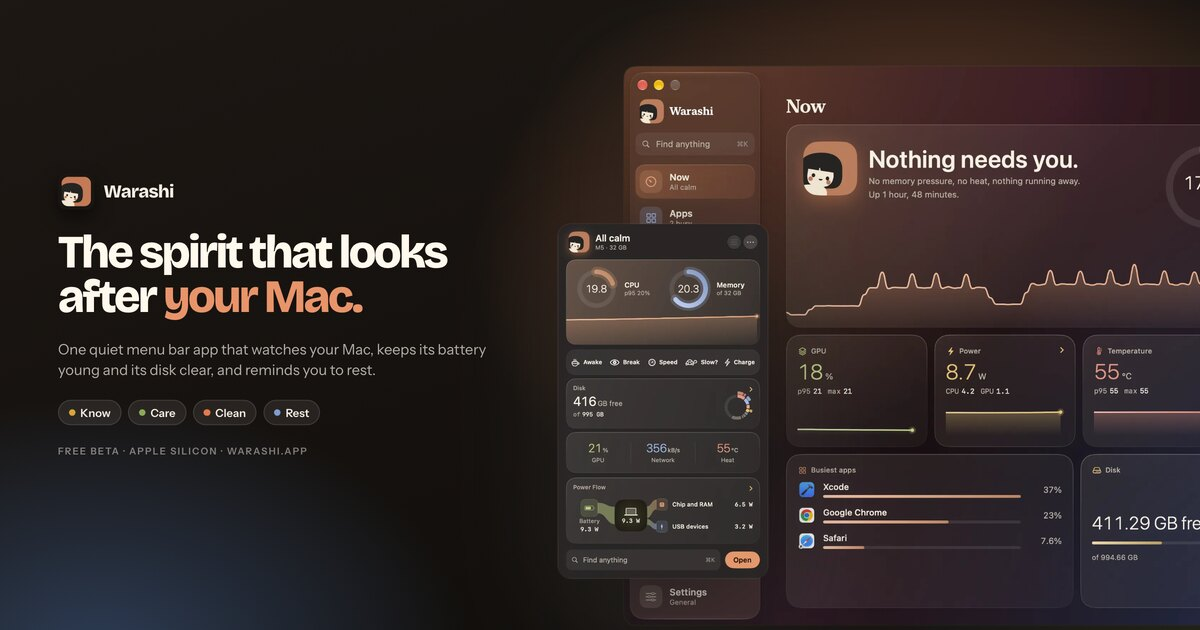
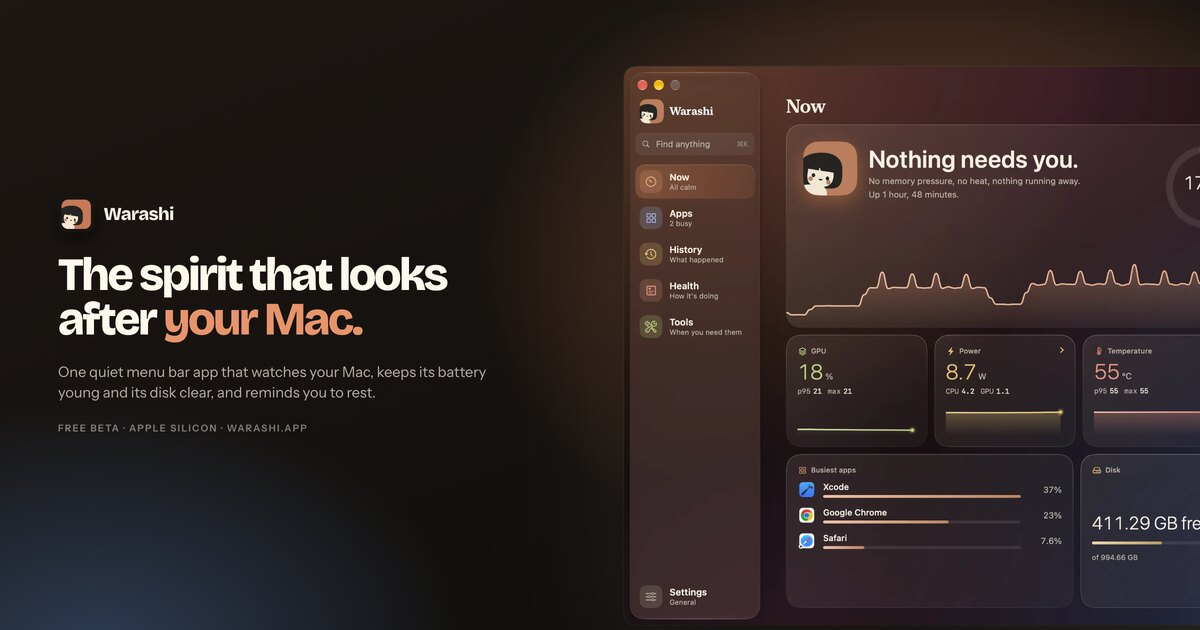
Listing screenshots on the site: six at 2880x1800 in og:image, JSON-LD and the press page; simpler share image and poster

diff --git a/press/index.html b/press/index.html
@@ -123,7 +123,7 @@ posthog.register({ surface: "website" });
 <h2>Logos</h2>
 <div class="press-logos"><a class="press-logo" href="../assets/press/logos/warashi-icon-1024.png" download><img src="../assets/press/logos/warashi-icon-1024.png" alt="App icon, 1024 px" loading="lazy"><span>App icon, 1024 px</span></a><a class="press-logo" href="../assets/press/logos/warashi-wordmark-on-dark.png" download><img src="../assets/press/logos/warashi-wordmark-on-dark.png" alt="Wordmark on dark" loading="lazy"><span>Wordmark on dark</span></a><a class="press-logo light" href="../assets/press/logos/warashi-wordmark-on-light.png" download><img src="../assets/press/logos/warashi-wordmark-on-light.png" alt="Wordmark on light" loading="lazy"><span>Wordmark on light</span></a><a class="press-logo" href="../assets/press/logos/warashi-spirit.svg" download><img src="../assets/press/logos/warashi-spirit.svg" alt="Spirit (SVG)" loading="lazy"><span>Spirit (SVG)</span></a></div>
 <h2>Images</h2>
-<div class="press-shots"><a href="../assets/press/screens/01-hero.webp" class="press-shot"><img src="../assets/press/screens/01-hero.webp" alt="Warashi: hero" width="800" height="450" loading="lazy"></a><a href="../assets/press/screens/02-know.webp" class="press-shot"><img src="../assets/press/screens/02-know.webp" alt="Warashi: know" width="800" height="450" loading="lazy"></a><a href="../assets/press/screens/03-care.webp" class="press-shot"><img src="../assets/press/screens/03-care.webp" alt="Warashi: care" width="800" height="450" loading="lazy"></a><a href="../assets/press/screens/04-clean.webp" class="press-shot"><img src="../assets/press/screens/04-clean.webp" alt="Warashi: clean" width="800" height="450" loading="lazy"></a><a href="../assets/press/screens/05-rest.webp" class="press-shot"><img src="../assets/press/screens/05-rest.webp" alt="Warashi: rest" width="800" height="450" loading="lazy"></a><a href="../assets/press/screens/06-developers.webp" class="press-shot"><img src="../assets/press/screens/06-developers.webp" alt="Warashi: developers" width="800" height="450" loading="lazy"></a><a href="../assets/press/screens/07-oneapp.webp" class="press-shot"><img src="../assets/press/screens/07-oneapp.webp" alt="Warashi: oneapp" width="800" height="450" loading="lazy"></a></div>
+<h3>Screenshots, 2880 x 1800</h3><div class="press-shots"><a href="../assets/img/screenshots/01-cover.jpg" class="press-shot" download><img src="../assets/img/screenshots/01-cover.jpg" alt="Warashi screenshot: cover" width="2880" height="1800" loading="lazy"></a><a href="../assets/img/screenshots/02-know.jpg" class="press-shot" download><img src="../assets/img/screenshots/02-know.jpg" alt="Warashi screenshot: know" width="2880" height="1800" loading="lazy"></a><a href="../assets/img/screenshots/03-care.jpg" class="press-shot" download><img src="../assets/img/screenshots/03-care.jpg" alt="Warashi screenshot: care" width="2880" height="1800" loading="lazy"></a><a href="../assets/img/screenshots/04-clean.jpg" class="press-shot" download><img src="../assets/img/screenshots/04-clean.jpg" alt="Warashi screenshot: clean" width="2880" height="1800" loading="lazy"></a><a href="../assets/img/screenshots/05-rest.jpg" class="press-shot" download><img src="../assets/img/screenshots/05-rest.jpg" alt="Warashi screenshot: rest" width="2880" height="1800" loading="lazy"></a><a href="../assets/img/screenshots/06-developers.jpg" class="press-shot" download><img src="../assets/img/screenshots/06-developers.jpg" alt="Warashi screenshot: developers" width="2880" height="1800" loading="lazy"></a></div><h3>Gallery</h3><div class="press-shots"><a href="../assets/press/screens/00-showcase.webp" class="press-shot"><img src="../assets/press/screens/00-showcase.webp" alt="Warashi: showcase" width="800" height="450" loading="lazy"></a><a href="../assets/press/screens/01-hero.webp" class="press-shot"><img src="../assets/press/screens/01-hero.webp" alt="Warashi: hero" width="800" height="450" loading="lazy"></a><a href="../assets/press/screens/02-know.webp" class="press-shot"><img src="../assets/press/screens/02-know.webp" alt="Warashi: know" width="800" height="450" loading="lazy"></a><a href="../assets/press/screens/03-care.webp" class="press-shot"><img src="../assets/press/screens/03-care.webp" alt="Warashi: care" width="800" height="450" loading="lazy"></a><a href="../assets/press/screens/04-clean.webp" class="press-shot"><img src="../assets/press/screens/04-clean.webp" alt="Warashi: clean" width="800" height="450" loading="lazy"></a><a href="../assets/press/screens/05-rest.webp" class="press-shot"><img src="../assets/press/screens/05-rest.webp" alt="Warashi: rest" width="800" height="450" loading="lazy"></a><a href="../assets/press/screens/06-developers.webp" class="press-shot"><img src="../assets/press/screens/06-developers.webp" alt="Warashi: developers" width="800" height="450" loading="lazy"></a><a href="../assets/press/screens/07-oneapp.webp" class="press-shot"><img src="../assets/press/screens/07-oneapp.webp" alt="Warashi: oneapp" width="800" height="450" loading="lazy"></a></div>
 <h2>Films</h2><h3>The Keynote <span style="color:var(--faint);font-weight:400">· 2:14</span></h3><video controls preload="none" poster="../assets/press/keynote-poster.jpg" src="../assets/press/warashi-keynote.mp4" style="width:100%;border-radius:14px"></video><p style="margin-top:8px"><a href="../assets/press/warashi-keynote-1080p.mp4" download>Download in 1080p</a></p><h3>A day with your Mac <span style="color:var(--faint);font-weight:400">· 1:10</span></h3><video controls preload="none" poster="../assets/press/day-poster.jpg" src="../assets/press/warashi-a-day.mp4" style="width:100%;border-radius:14px"></video><p style="margin-top:8px"><a href="../assets/press/warashi-a-day-1080p.mp4" download>Download in 1080p</a></p>
 <h2>Contact</h2>
 <p>Questions, review copies or an interview: <a href="mailto:adam@warashi.app">adam@warashi.app</a>. Screenshots and the film may be used to write about Warashi; please don't alter the logo.</p>

diff --git a/fr/index.html b/fr/index.html
@@ -15,6 +15,18 @@
 <meta property="og:image:type" content="image/jpeg">
 <meta property="og:image:width" content="1200"><meta property="og:image:height" content="630">
 <meta property="og:image:alt" content="Warashi : l’esprit qui veille sur votre Mac. L’icône de l’esprit à côté de la fenêtre Warashi et de la fenêtre de la barre des menus.">
+<meta property="og:image" content="https://warashi.app/assets/img/screenshots/01-cover.jpg">
+<meta property="og:image:width" content="2880"><meta property="og:image:height" content="1800">
+<meta property="og:image" content="https://warashi.app/assets/img/screenshots/02-know.jpg">
+<meta property="og:image:width" content="2880"><meta property="og:image:height" content="1800">
+<meta property="og:image" content="https://warashi.app/assets/img/screenshots/03-care.jpg">
+<meta property="og:image:width" content="2880"><meta property="og:image:height" content="1800">
+<meta property="og:image" content="https://warashi.app/assets/img/screenshots/04-clean.jpg">
+<meta property="og:image:width" content="2880"><meta property="og:image:height" content="1800">
+<meta property="og:image" content="https://warashi.app/assets/img/screenshots/05-rest.jpg">
+<meta property="og:image:width" content="2880"><meta property="og:image:height" content="1800">
+<meta property="og:image" content="https://warashi.app/assets/img/screenshots/06-developers.jpg">
+<meta property="og:image:width" content="2880"><meta property="og:image:height" content="1800">
 <meta name="twitter:card" content="summary_large_image">
 <meta name="twitter:title" content="Warashi : l’esprit qui veille sur votre Mac">
 <meta name="twitter:description" content="Warashi est l’esprit qui veille sur votre Mac : une app discrète de la barre des menus pour Apple silicon qui le surveille, garde sa batterie jeune et son disque dégagé, vous prévient quand quelque chose cloche, et vous rappelle de vous reposer. Bêta gratuite.">
@@ -41,7 +53,7 @@ posthog.init("phc_wbppbVusTEpwnbuC3pzygCZUmxrsKuwjPNsxihwFuBWW", {
 });
 posthog.register({ surface: "website" });
 </script>
-<script type="application/ld+json">{"@context":"https://schema.org","@type":"SoftwareApplication","name":"Warashi","applicationCategory":"UtilitiesApplication","operatingSystem":"macOS 26 or later (Apple silicon)","description":"Warashi est l’esprit qui veille sur votre Mac : une app discrète de la barre des menus pour Apple silicon qui le surveille, garde sa batterie jeune et son disque dégagé, vous prévient quand quelque chose cloche, et vous rappelle de vous reposer. Bêta gratuite.","url":"https://warashi.app/","image":"https://warashi.app/assets/img/app-icon-1024.png","author":{"@type":"Person","name":"Adam Markocki","url":"https://markockiadam.com"},"softwareVersion":"0.3.63","dateModified":"2026-11-23"}</script>
+<script type="application/ld+json">{"@context":"https://schema.org","@type":"SoftwareApplication","name":"Warashi","applicationCategory":"UtilitiesApplication","operatingSystem":"macOS 26 or later (Apple silicon)","description":"Warashi est l’esprit qui veille sur votre Mac : une app discrète de la barre des menus pour Apple silicon qui le surveille, garde sa batterie jeune et son disque dégagé, vous prévient quand quelque chose cloche, et vous rappelle de vous reposer. Bêta gratuite.","url":"https://warashi.app/","image":"https://warashi.app/assets/img/app-icon-1024.png","author":{"@type":"Person","name":"Adam Markocki","url":"https://markockiadam.com"},"softwareVersion":"0.3.63","dateModified":"2026-11-23","screenshot":["https://warashi.app/assets/img/screenshots/01-cover.jpg","https://warashi.app/assets/img/screenshots/02-know.jpg","https://warashi.app/assets/img/screenshots/03-care.jpg","https://warashi.app/assets/img/screenshots/04-clean.jpg","https://warashi.app/assets/img/screenshots/05-rest.jpg","https://warashi.app/assets/img/screenshots/06-developers.jpg"]}</script>
 <script type="application/ld+json">{"@context":"https://schema.org","@type":"WebSite","name":"Warashi","url":"https://warashi.app/"}</script>
 
 

diff --git a/ja/index.html b/ja/index.html
@@ -15,6 +15,18 @@
 <meta property="og:image:type" content="image/jpeg">
 <meta property="og:image:width" content="1200"><meta property="og:image:height" content="630">
 <meta property="og:image:alt" content="Warashi：Macを見守る精霊。Warashiのウインドウとメニューバーウインドウの横にある、わらしのアイコン。">
+<meta property="og:image" content="https://warashi.app/assets/img/screenshots/01-cover.jpg">
+<meta property="og:image:width" content="2880"><meta property="og:image:height" content="1800">
+<meta property="og:image" content="https://warashi.app/assets/img/screenshots/02-know.jpg">
+<meta property="og:image:width" content="2880"><meta property="og:image:height" content="1800">
+<meta property="og:image" content="https://warashi.app/assets/img/screenshots/03-care.jpg">
+<meta property="og:image:width" content="2880"><meta property="og:image:height" content="1800">
+<meta property="og:image" content="https://warashi.app/assets/img/screenshots/04-clean.jpg">
+<meta property="og:image:width" content="2880"><meta property="og:image:height" content="1800">
+<meta property="og:image" content="https://warashi.app/assets/img/screenshots/05-rest.jpg">
+<meta property="og:image:width" content="2880"><meta property="og:image:height" content="1800">
+<meta property="og:image" content="https://warashi.app/assets/img/screenshots/06-developers.jpg">
+<meta property="og:image:width" content="2880"><meta property="og:image:height" content="1800">
 <meta name="twitter:card" content="summary_large_image">
 <meta name="twitter:title" content="Warashi：Macを見守る精霊">
 <meta name="twitter:description" content="WarashiはMacを見守る精霊。Apple silicon向けの静かなメニューバーアプリで、Macを見守り、バッテリーを若々しく、ディスクをすっきりと保ち、異常をお知らせし、休憩をうながします。無料ベータ版。">
@@ -41,7 +53,7 @@ posthog.init("phc_wbppbVusTEpwnbuC3pzygCZUmxrsKuwjPNsxihwFuBWW", {
 });
 posthog.register({ surface: "website" });
 </script>
-<script type="application/ld+json">{"@context":"https://schema.org","@type":"SoftwareApplication","name":"Warashi","applicationCategory":"UtilitiesApplication","operatingSystem":"macOS 26 or later (Apple silicon)","description":"WarashiはMacを見守る精霊。Apple silicon向けの静かなメニューバーアプリで、Macを見守り、バッテリーを若々しく、ディスクをすっきりと保ち、異常をお知らせし、休憩をうながします。無料ベータ版。","url":"https://warashi.app/","image":"https://warashi.app/assets/img/app-icon-1024.png","author":{"@type":"Person","name":"Adam Markocki","url":"https://markockiadam.com"},"softwareVersion":"0.3.63","dateModified":"2026-11-23"}</script>
+<script type="application/ld+json">{"@context":"https://schema.org","@type":"SoftwareApplication","name":"Warashi","applicationCategory":"UtilitiesApplication","operatingSystem":"macOS 26 or later (Apple silicon)","description":"WarashiはMacを見守る精霊。Apple silicon向けの静かなメニューバーアプリで、Macを見守り、バッテリーを若々しく、ディスクをすっきりと保ち、異常をお知らせし、休憩をうながします。無料ベータ版。","url":"https://warashi.app/","image":"https://warashi.app/assets/img/app-icon-1024.png","author":{"@type":"Person","name":"Adam Markocki","url":"https://markockiadam.com"},"softwareVersion":"0.3.63","dateModified":"2026-11-23","screenshot":["https://warashi.app/assets/img/screenshots/01-cover.jpg","https://warashi.app/assets/img/screenshots/02-know.jpg","https://warashi.app/assets/img/screenshots/03-care.jpg","https://warashi.app/assets/img/screenshots/04-clean.jpg","https://warashi.app/assets/img/screenshots/05-rest.jpg","https://warashi.app/assets/img/screenshots/06-developers.jpg"]}</script>
 <script type="application/ld+json">{"@context":"https://schema.org","@type":"WebSite","name":"Warashi","url":"https://warashi.app/"}</script>
 
 

diff --git a/pl/index.html b/pl/index.html
@@ -15,6 +15,18 @@
 <meta property="og:image:type" content="image/jpeg">
 <meta property="og:image:width" content="1200"><meta property="og:image:height" content="630">
 <meta property="og:image:alt" content="Warashi: duszek, który opiekuje się Twoim Makiem. Ikona duszka obok okna Warashi i okna paska menu.">
+<meta property="og:image" content="https://warashi.app/assets/img/screenshots/01-cover.jpg">
+<meta property="og:image:width" content="2880"><meta property="og:image:height" content="1800">
+<meta property="og:image" content="https://warashi.app/assets/img/screenshots/02-know.jpg">
+<meta property="og:image:width" content="2880"><meta property="og:image:height" content="1800">
+<meta property="og:image" content="https://warashi.app/assets/img/screenshots/03-care.jpg">
+<meta property="og:image:width" content="2880"><meta property="og:image:height" content="1800">
+<meta property="og:image" content="https://warashi.app/assets/img/screenshots/04-clean.jpg">
+<meta property="og:image:width" content="2880"><meta property="og:image:height" content="1800">
+<meta property="og:image" content="https://warashi.app/assets/img/screenshots/05-rest.jpg">
+<meta property="og:image:width" content="2880"><meta property="og:image:height" content="1800">
+<meta property="og:image" content="https://warashi.app/assets/img/screenshots/06-developers.jpg">
+<meta property="og:image:width" content="2880"><meta property="og:image:height" content="1800">
 <meta name="twitter:card" content="summary_large_image">
 <meta name="twitter:title" content="Warashi: duszek, który opiekuje się Twoim Makiem">
 <meta name="twitter:description" content="Warashi to duszek, który opiekuje się Twoim Makiem: jedna cicha aplikacja paska menu dla Apple silicon, która go obserwuje, utrzymuje baterię młodą, a dysk czysty, mówi, gdy coś jest nie tak, i przypomina, by odpocząć. Bezpłatna beta.">
@@ -41,7 +53,7 @@ posthog.init("phc_wbppbVusTEpwnbuC3pzygCZUmxrsKuwjPNsxihwFuBWW", {
 });
 posthog.register({ surface: "website" });
 </script>
-<script type="application/ld+json">{"@context":"https://schema.org","@type":"SoftwareApplication","name":"Warashi","applicationCategory":"UtilitiesApplication","operatingSystem":"macOS 26 or later (Apple silicon)","description":"Warashi to duszek, który opiekuje się Twoim Makiem: jedna cicha aplikacja paska menu dla Apple silicon, która go obserwuje, utrzymuje baterię młodą, a dysk czysty, mówi, gdy coś jest nie tak, i przypomina, by odpocząć. Bezpłatna beta.","url":"https://warashi.app/","image":"https://warashi.app/assets/img/app-icon-1024.png","author":{"@type":"Person","name":"Adam Markocki","url":"https://markockiadam.com"},"softwareVersion":"0.3.63","dateModified":"2026-11-23"}</script>
+<script type="application/ld+json">{"@context":"https://schema.org","@type":"SoftwareApplication","name":"Warashi","applicationCategory":"UtilitiesApplication","operatingSystem":"macOS 26 or later (Apple silicon)","description":"Warashi to duszek, który opiekuje się Twoim Makiem: jedna cicha aplikacja paska menu dla Apple silicon, która go obserwuje, utrzymuje baterię młodą, a dysk czysty, mówi, gdy coś jest nie tak, i przypomina, by odpocząć. Bezpłatna beta.","url":"https://warashi.app/","image":"https://warashi.app/assets/img/app-icon-1024.png","author":{"@type":"Person","name":"Adam Markocki","url":"https://markockiadam.com"},"softwareVersion":"0.3.63","dateModified":"2026-11-23","screenshot":["https://warashi.app/assets/img/screenshots/01-cover.jpg","https://warashi.app/assets/img/screenshots/02-know.jpg","https://warashi.app/assets/img/screenshots/03-care.jpg","https://warashi.app/assets/img/screenshots/04-clean.jpg","https://warashi.app/assets/img/screenshots/05-rest.jpg","https://warashi.app/assets/img/screenshots/06-developers.jpg"]}</script>
 <script type="application/ld+json">{"@context":"https://schema.org","@type":"WebSite","name":"Warashi","url":"https://warashi.app/"}</script>
 
 

diff --git a/index.html b/index.html
@@ -15,6 +15,18 @@
 <meta property="og:image:type" content="image/jpeg">
 <meta property="og:image:width" content="1200"><meta property="og:image:height" content="630">
 <meta property="og:image:alt" content="Warashi: the spirit that looks after your Mac. The spirit icon beside the Warashi window and menu bar window.">
+<meta property="og:image" content="https://warashi.app/assets/img/screenshots/01-cover.jpg">
+<meta property="og:image:width" content="2880"><meta property="og:image:height" content="1800">
+<meta property="og:image" content="https://warashi.app/assets/img/screenshots/02-know.jpg">
+<meta property="og:image:width" content="2880"><meta property="og:image:height" content="1800">
+<meta property="og:image" content="https://warashi.app/assets/img/screenshots/03-care.jpg">
+<meta property="og:image:width" content="2880"><meta property="og:image:height" content="1800">
+<meta property="og:image" content="https://warashi.app/assets/img/screenshots/04-clean.jpg">
+<meta property="og:image:width" content="2880"><meta property="og:image:height" content="1800">
+<meta property="og:image" content="https://warashi.app/assets/img/screenshots/05-rest.jpg">
+<meta property="og:image:width" content="2880"><meta property="og:image:height" content="1800">
+<meta property="og:image" content="https://warashi.app/assets/img/screenshots/06-developers.jpg">
+<meta property="og:image:width" content="2880"><meta property="og:image:height" content="1800">
 <meta name="twitter:card" content="summary_large_image">
 <meta name="twitter:title" content="Warashi: the spirit that looks after your Mac">
 <meta name="twitter:description" content="Warashi is the spirit that looks after your Mac: one quiet menu bar app for Apple silicon that watches it, keeps its battery young and its disk clear, tells you when something's wrong, and reminds you to rest. Free beta.">
@@ -41,7 +53,7 @@ posthog.init("phc_wbppbVusTEpwnbuC3pzygCZUmxrsKuwjPNsxihwFuBWW", {
 });
 posthog.register({ surface: "website" });
 </script>
-<script type="application/ld+json">{"@context": "https://schema.org", "@type": "SoftwareApplication", "name": "Warashi", "applicationCategory": "UtilitiesApplication", "operatingSystem": "macOS 26 or later (Apple silicon)", "description": "Warashi is the spirit that looks after your Mac: one quiet menu bar app for Apple silicon that watches it, keeps its battery young and its disk clear, tells you when something's wrong, and reminds you to rest. Free beta.", "url": "https://warashi.app/", "image": "https://warashi.app/assets/img/app-icon-1024.png", "author": {"@type": "Person", "name": "Adam Markocki", "url": "https://markockiadam.com"}, "softwareVersion": "0.3.63", "dateModified": "2026-11-23"}</script>
+<script type="application/ld+json">{"@context": "https://schema.org", "@type": "SoftwareApplication", "name": "Warashi", "applicationCategory": "UtilitiesApplication", "operatingSystem": "macOS 26 or later (Apple silicon)", "description": "Warashi is the spirit that looks after your Mac: one quiet menu bar app for Apple silicon that watches it, keeps its battery young and its disk clear, tells you when something's wrong, and reminds you to rest. Free beta.", "url": "https://warashi.app/", "image": "https://warashi.app/assets/img/app-icon-1024.png", "author": {"@type": "Person", "name": "Adam Markocki", "url": "https://markockiadam.com"}, "softwareVersion": "0.3.63", "dateModified": "2026-11-23", "screenshot": ["https://warashi.app/assets/img/screenshots/01-cover.jpg", "https://warashi.app/assets/img/screenshots/02-know.jpg", "https://warashi.app/assets/img/screenshots/03-care.jpg", "https://warashi.app/assets/img/screenshots/04-clean.jpg", "https://warashi.app/assets/img/screenshots/05-rest.jpg", "https://warashi.app/assets/img/screenshots/06-developers.jpg"]}</script>
 <script type="application/ld+json">{"@context": "https://schema.org", "@type": "WebSite", "name": "Warashi", "url": "https://warashi.app/"}</script>
 
 

diff --git a/es/index.html b/es/index.html
@@ -15,6 +15,18 @@
 <meta property="og:image:type" content="image/jpeg">
 <meta property="og:image:width" content="1200"><meta property="og:image:height" content="630">
 <meta property="og:image:alt" content="Warashi: el espíritu que cuida de tu Mac. El icono del espíritu junto a la ventana de Warashi y la ventana de la barra de menús.">
+<meta property="og:image" content="https://warashi.app/assets/img/screenshots/01-cover.jpg">
+<meta property="og:image:width" content="2880"><meta property="og:image:height" content="1800">
+<meta property="og:image" content="https://warashi.app/assets/img/screenshots/02-know.jpg">
+<meta property="og:image:width" content="2880"><meta property="og:image:height" content="1800">
+<meta property="og:image" content="https://warashi.app/assets/img/screenshots/03-care.jpg">
+<meta property="og:image:width" content="2880"><meta property="og:image:height" content="1800">
+<meta property="og:image" content="https://warashi.app/assets/img/screenshots/04-clean.jpg">
+<meta property="og:image:width" content="2880"><meta property="og:image:height" content="1800">
+<meta property="og:image" content="https://warashi.app/assets/img/screenshots/05-rest.jpg">
+<meta property="og:image:width" content="2880"><meta property="og:image:height" content="1800">
+<meta property="og:image" content="https://warashi.app/assets/img/screenshots/06-developers.jpg">
+<meta property="og:image:width" content="2880"><meta property="og:image:height" content="1800">
 <meta name="twitter:card" content="summary_large_image">
 <meta name="twitter:title" content="Warashi: el espíritu que cuida de tu Mac">
 <meta name="twitter:description" content="Warashi es el espíritu que cuida de tu Mac: una app discreta de la barra de menús para Apple silicon que lo vigila, mantiene joven su batería y despejado su disco, te avisa cuando algo falla y te recuerda descansar. Beta gratuita.">
@@ -41,7 +53,7 @@ posthog.init("phc_wbppbVusTEpwnbuC3pzygCZUmxrsKuwjPNsxihwFuBWW", {
 });
 posthog.register({ surface: "website" });
 </script>
-<script type="application/ld+json">{"@context":"https://schema.org","@type":"SoftwareApplication","name":"Warashi","applicationCategory":"UtilitiesApplication","operatingSystem":"macOS 26 or later (Apple silicon)","description":"Warashi es el espíritu que cuida de tu Mac: una app discreta de la barra de menús para Apple silicon que lo vigila, mantiene joven su batería y despejado su disco, te avisa cuando algo falla y te recuerda descansar. Beta gratuita.","url":"https://warashi.app/","image":"https://warashi.app/assets/img/app-icon-1024.png","author":{"@type":"Person","name":"Adam Markocki","url":"https://markockiadam.com"},"softwareVersion":"0.3.63","dateModified":"2026-11-23"}</script>
+<script type="application/ld+json">{"@context":"https://schema.org","@type":"SoftwareApplication","name":"Warashi","applicationCategory":"UtilitiesApplication","operatingSystem":"macOS 26 or later (Apple silicon)","description":"Warashi es el espíritu que cuida de tu Mac: una app discreta de la barra de menús para Apple silicon que lo vigila, mantiene joven su batería y despejado su disco, te avisa cuando algo falla y te recuerda descansar. Beta gratuita.","url":"https://warashi.app/","image":"https://warashi.app/assets/img/app-icon-1024.png","author":{"@type":"Person","name":"Adam Markocki","url":"https://markockiadam.com"},"softwareVersion":"0.3.63","dateModified":"2026-11-23","screenshot":["https://warashi.app/assets/img/screenshots/01-cover.jpg","https://warashi.app/assets/img/screenshots/02-know.jpg","https://warashi.app/assets/img/screenshots/03-care.jpg","https://warashi.app/assets/img/screenshots/04-clean.jpg","https://warashi.app/assets/img/screenshots/05-rest.jpg","https://warashi.app/assets/img/screenshots/06-developers.jpg"]}</script>
 <script type="application/ld+json">{"@context":"https://schema.org","@type":"WebSite","name":"Warashi","url":"https://warashi.app/"}</script>
 
 

diff --git a/pt-br/index.html b/pt-br/index.html
@@ -15,6 +15,18 @@
 <meta property="og:image:type" content="image/jpeg">
 <meta property="og:image:width" content="1200"><meta property="og:image:height" content="630">
 <meta property="og:image:alt" content="Warashi: o espírito que cuida do seu Mac. O ícone do espírito ao lado da janela do Warashi e da janela da barra de menus.">
+<meta property="og:image" content="https://warashi.app/assets/img/screenshots/01-cover.jpg">
+<meta property="og:image:width" content="2880"><meta property="og:image:height" content="1800">
+<meta property="og:image" content="https://warashi.app/assets/img/screenshots/02-know.jpg">
+<meta property="og:image:width" content="2880"><meta property="og:image:height" content="1800">
+<meta property="og:image" content="https://warashi.app/assets/img/screenshots/03-care.jpg">
+<meta property="og:image:width" content="2880"><meta property="og:image:height" content="1800">
+<meta property="og:image" content="https://warashi.app/assets/img/screenshots/04-clean.jpg">
+<meta property="og:image:width" content="2880"><meta property="og:image:height" content="1800">
+<meta property="og:image" content="https://warashi.app/assets/img/screenshots/05-rest.jpg">
+<meta property="og:image:width" content="2880"><meta property="og:image:height" content="1800">
+<meta property="og:image" content="https://warashi.app/assets/img/screenshots/06-developers.jpg">
+<meta property="og:image:width" content="2880"><meta property="og:image:height" content="1800">
 <meta name="twitter:card" content="summary_large_image">
 <meta name="twitter:title" content="Warashi: o espírito que cuida do seu Mac">
 <meta name="twitter:description" content="O Warashi é o espírito que cuida do seu Mac: um app discreto de barra de menus para Apple silicon que o observa, mantém a bateria jovem e o disco livre, avisa quando algo está errado e lembra você de descansar. Beta gratuito.">
@@ -41,7 +53,7 @@ posthog.init("phc_wbppbVusTEpwnbuC3pzygCZUmxrsKuwjPNsxihwFuBWW", {
 });
 posthog.register({ surface: "website" });
 </script>
-<script type="application/ld+json">{"@context":"https://schema.org","@type":"SoftwareApplication","name":"Warashi","applicationCategory":"UtilitiesApplication","operatingSystem":"macOS 26 or later (Apple silicon)","description":"O Warashi é o espírito que cuida do seu Mac: um app discreto de barra de menus para Apple silicon que o observa, mantém a bateria jovem e o disco livre, avisa quando algo está errado e lembra você de descansar. Beta gratuito.","url":"https://warashi.app/","image":"https://warashi.app/assets/img/app-icon-1024.png","author":{"@type":"Person","name":"Adam Markocki","url":"https://markockiadam.com"},"softwareVersion":"0.3.63","dateModified":"2026-11-23"}</script>
+<script type="application/ld+json">{"@context":"https://schema.org","@type":"SoftwareApplication","name":"Warashi","applicationCategory":"UtilitiesApplication","operatingSystem":"macOS 26 or later (Apple silicon)","description":"O Warashi é o espírito que cuida do seu Mac: um app discreto de barra de menus para Apple silicon que o observa, mantém a bateria jovem e o disco livre, avisa quando algo está errado e lembra você de descansar. Beta gratuito.","url":"https://warashi.app/","image":"https://warashi.app/assets/img/app-icon-1024.png","author":{"@type":"Person","name":"Adam Markocki","url":"https://markockiadam.com"},"softwareVersion":"0.3.63","dateModified":"2026-11-23","screenshot":["https://warashi.app/assets/img/screenshots/01-cover.jpg","https://warashi.app/assets/img/screenshots/02-know.jpg","https://warashi.app/assets/img/screenshots/03-care.jpg","https://warashi.app/assets/img/screenshots/04-clean.jpg","https://warashi.app/assets/img/screenshots/05-rest.jpg","https://warashi.app/assets/img/screenshots/06-developers.jpg"]}</script>
 <script type="application/ld+json">{"@context":"https://schema.org","@type":"WebSite","name":"Warashi","url":"https://warashi.app/"}</script>
 
 

diff --git a/zh-hans/index.html b/zh-hans/index.html
@@ -15,6 +15,18 @@
 <meta property="og:image:type" content="image/jpeg">
 <meta property="og:image:width" content="1200"><meta property="og:image:height" content="630">
 <meta property="og:image:alt" content="Warashi：守护你 Mac 的精灵。Warashi 窗口和菜单栏窗口旁的精灵图标。">
+<meta property="og:image" content="https://warashi.app/assets/img/screenshots/01-cover.jpg">
+<meta property="og:image:width" content="2880"><meta property="og:image:height" content="1800">
+<meta property="og:image" content="https://warashi.app/assets/img/screenshots/02-know.jpg">
+<meta property="og:image:width" content="2880"><meta property="og:image:height" content="1800">
+<meta property="og:image" content="https://warashi.app/assets/img/screenshots/03-care.jpg">
+<meta property="og:image:width" content="2880"><meta property="og:image:height" content="1800">
+<meta property="og:image" content="https://warashi.app/assets/img/screenshots/04-clean.jpg">
+<meta property="og:image:width" content="2880"><meta property="og:image:height" content="1800">
+<meta property="og:image" content="https://warashi.app/assets/img/screenshots/05-rest.jpg">
+<meta property="og:image:width" content="2880"><meta property="og:image:height" content="1800">
+<meta property="og:image" content="https://warashi.app/assets/img/screenshots/06-developers.jpg">
+<meta property="og:image:width" content="2880"><meta property="og:image:height" content="1800">
 <meta name="twitter:card" content="summary_large_image">
 <meta name="twitter:title" content="Warashi：守护你 Mac 的精灵">
 <meta name="twitter:description" content="Warashi 是守护你 Mac 的精灵：一个安静的菜单栏 App，专为 Apple silicon 打造。它留意你的 Mac，让电池保持年轻、磁盘保持清爽，出问题时告诉你，也提醒你休息。免费 Beta。">
@@ -41,7 +53,7 @@ posthog.init("phc_wbppbVusTEpwnbuC3pzygCZUmxrsKuwjPNsxihwFuBWW", {
 });
 posthog.register({ surface: "website" });
 </script>
-<script type="application/ld+json">{"@context":"https://schema.org","@type":"SoftwareApplication","name":"Warashi","applicationCategory":"UtilitiesApplication","operatingSystem":"macOS 26 or later (Apple silicon)","description":"Warashi 是守护你 Mac 的精灵：一个安静的菜单栏 App，专为 Apple silicon 打造。它留意你的 Mac，让电池保持年轻、磁盘保持清爽，出问题时告诉你，也提醒你休息。免费 Beta。","url":"https://warashi.app/","image":"https://warashi.app/assets/img/app-icon-1024.png","author":{"@type":"Person","name":"Adam Markocki","url":"https://markockiadam.com"},"softwareVersion":"0.3.63","dateModified":"2026-11-23"}</script>
+<script type="application/ld+json">{"@context":"https://schema.org","@type":"SoftwareApplication","name":"Warashi","applicationCategory":"UtilitiesApplication","operatingSystem":"macOS 26 or later (Apple silicon)","description":"Warashi 是守护你 Mac 的精灵：一个安静的菜单栏 App，专为 Apple silicon 打造。它留意你的 Mac，让电池保持年轻、磁盘保持清爽，出问题时告诉你，也提醒你休息。免费 Beta。","url":"https://warashi.app/","image":"https://warashi.app/assets/img/app-icon-1024.png","author":{"@type":"Person","name":"Adam Markocki","url":"https://markockiadam.com"},"softwareVersion":"0.3.63","dateModified":"2026-11-23","screenshot":["https://warashi.app/assets/img/screenshots/01-cover.jpg","https://warashi.app/assets/img/screenshots/02-know.jpg","https://warashi.app/assets/img/screenshots/03-care.jpg","https://warashi.app/assets/img/screenshots/04-clean.jpg","https://warashi.app/assets/img/screenshots/05-rest.jpg","https://warashi.app/assets/img/screenshots/06-developers.jpg"]}</script>
 <script type="application/ld+json">{"@context":"https://schema.org","@type":"WebSite","name":"Warashi","url":"https://warashi.app/"}</script>
 
 
